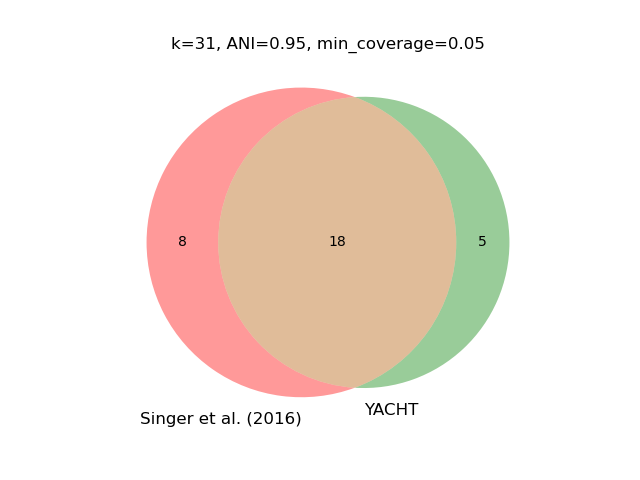
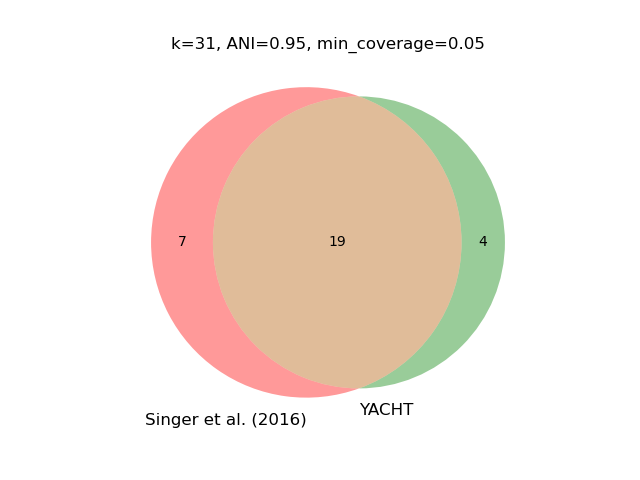
updates on analysis for use case example and venn diagram script using a new tabular file to match GTDB accessions

diff --git a/use_case_examples/synthetic_metagenome/venn.py b/use_case_examples/synthetic_metagenome/venn.py
@@ -1,25 +1,23 @@
 import pandas as pd
 import matplotlib.pyplot as plt
 from matplotlib_venn import venn2
+import math
 
 def load_data(tab_file, excel_file, tab_col, excel_col, sheet_name=None):
     """Loads and returns organism names from both files, removing non-breaking spaces."""
     tab_df = pd.read_csv(tab_file, sep='\t')
-    tab_df[tab_col] = tab_df[tab_col].astype(str).str.replace('\xa0', ' ', regex=True)
-    tab_df['Species'] = tab_df[tab_col].apply(lambda x: ' '.join(x.split()[:2]))
-    tab_df['Strain'] = tab_df[tab_col].apply(lambda x: x.split()[-2])
 
     excel_df = pd.read_excel(excel_file, sheet_name=sheet_name) if sheet_name else pd.read_excel(excel_file)
     excel_df[excel_col] = excel_df[excel_col].astype(str).str.replace('\xa0', ' ', regex=True)
 
-    return dict(zip(tab_df["Organism"], zip(tab_df["Species"], tab_df["Strain"]))), set(excel_df[excel_col])
+    return dict(zip(tab_df["Paper Identifier"], tab_df[tab_col])), set(excel_df[excel_col])
 
-def find_matches(query_dict, set):
+def find_matches(query_dict, ref_set):
     """Match organisms found in results from synthetic microorganism table"""
     keys_list = list(query_dict.keys())
-    for key, value in query_dict.items():
-        for organism in set:
-            if value[0] and value[1] in organism:
+    for key, query in query_dict.items():
+        for organism in ref_set:
+            if str(query) in organism:  # Check if query is found in ref
                 keys_list = [item.replace(key, organism) for item in keys_list]
     return keys_list
 
@@ -30,7 +28,7 @@ def plot_venn(set1, set2, label1='Singer et al. (2016)', label2='YACHT', output_
     plt.savefig(output_file)
     plt.clf()
 
-def main(tab_file, excel_file, title, tab_col='Organism', excel_col='organism_name', sheet_name=None, outfile="venn_diagram.pdf"):
+def main(tab_file, excel_file, title, tab_col='GTDB Accession', excel_col='organism_name', sheet_name=None, outfile="venn_diagram.pdf"):
     tab_dict, excel_set = load_data(tab_file, excel_file, tab_col, excel_col, sheet_name)
     tab_set = set(find_matches(tab_dict, excel_set))
     plot_venn(tab_set, excel_set, output_file=outfile,title=title)
@@ -40,10 +38,16 @@ k=31
 cov=0.05
 
 ani="0.80"
-main('table1_paper.tab', f'result_k31_min0.05_ani0.80.xlsx', sheet_name=f'min_coverage{cov}', outfile=f"venn_k{k}_{ani}_min{cov}.png",title=f"k={k}, ANI={ani}, min_coverage={cov}")
+main('matched_identifiers.tab', f'result_k31_ani0.80.xlsx', sheet_name=f'min_coverage{cov}', outfile=f"venn_k{k}_{ani}_min{cov}.png",title=f"k={k}, ANI={ani}, min_coverage={cov}")
 
 ani="0.95"
-main('table1_paper.tab', f'result_k31_min0.05_ani0.95.xlsx', sheet_name=f'min_coverage{cov}', outfile=f"venn_k{k}_{ani}_min{cov}.png",title=f"k={k}, ANI={ani}, min_coverage={cov}")
+main('matched_identifiers.tab', f'result_k31_ani0.95.xlsx', sheet_name=f'min_coverage{cov}', outfile=f"venn_k{k}_{ani}_min{cov}.png",title=f"k={k}, ANI={ani}, min_coverage={cov}")
 
 ani="0.9995"
-main('table1_paper.tab', f'result_k31_min0.05_ani0.9995.xlsx', sheet_name=f'min_coverage{cov}', outfile=f"venn_k{k}_{ani}_min{cov}.png",title=f"k={k}, ANI={ani}, min_coverage={cov}")
+main('matched_identifiers.tab', f'result_k31_ani0.9995.xlsx', sheet_name=f'min_coverage{cov}', outfile=f"venn_k{k}_{ani}_min{cov}.png",title=f"k={k}, ANI={ani}, min_coverage={cov}")
+
+ani="0.95"
+cov=0.0001
+main('matched_identifiers.tab', f'result_k31_ani0.95.xlsx', sheet_name=f'min_coverage{cov}', outfile=f"venn_k{k}_{ani}_min{cov}.png",title=f"k={k}, ANI={ani}, min_coverage={cov}")
+cov=0.25
+main('matched_identifiers.tab', f'result_k31_ani0.95.xlsx', sheet_name=f'min_coverage{cov}', outfile=f"venn_k{k}_{ani}_min{cov}.png",title=f"k={k}, ANI={ani}, min_coverage={cov}")

diff --git a/use_case_examples/synthetic_metagenome/README.md b/use_case_examples/synthetic_metagenome/README.md
@@ -33,13 +33,23 @@ YACHT offers the option to download pretrained reference databases, and we execu
 
 ### Identify presence of microbes in mock community using yacht run
 
-    yacht run --json 'gtdb-rs214-reps.k31_0.95_pretrained/gtdb-rs214-reps.k31_0.95_config.json' --sample_file 'sample.sig.zip' --num_threads 32 --keep_raw --significance 0.95 --min_coverage_list 1 0.5 0.1 0.05 0.01 --out ./result_k31_min0.05_ani0.95.xlsx
+    yacht run --json 'gtdb-rs214-reps.k31_0.95_pretrained/gtdb-rs214-reps.k31_0.95_config.json' --sample_file 'sample.sig.zip' --num_threads 32 --keep_raw --significance 0.95 --min_coverage_list 0.25 0.05 0.0001 --out ./result_k31_ani0.95.xlsx
 
 ### Results using an ANI threshold of 0.95
 
 18 species are reported as present, while 8 of those were not, this is likely due to these microbes having a lower sequence coverage resulting in less unique k-mers.
 
 ![Venn Diagram](venn_k31_0.95_min0.05.png)
+
+![Venn Diagram](venn_k31_0.95_min0.0001.png)
+
+![Venn Diagram](venn_k31_0.95_min0.25.png)
+
+## ANI threshold of 0.95 and reducing the scale factor to 500
+
+
+### Results using an ANI threshold of 0.95 but reducing the scale factor to 100
+
 
 ## ANI threshold of 0.9995
 
@@ -51,7 +61,7 @@ We increase the ANI threshold to 0.9995.
 
 ### Using an ANI threshold of 0.9995, report species present in mock community sample
 
-    yacht run --json 'gtdb-rs214-reps.k31_0.9995_pretrained/gtdb-rs214-reps.k31_0.9995_config.json' --sample_file 'sample.sig.zip' --num_threads 32 --keep_raw --significance 0.9995 --min_coverage_list 1 0.5 0.1 0.05 0.01 --out ./result_k31_min0.05_ani0.9995.xlsx
+    yacht run --json 'gtdb-rs214-reps.k31_0.9995_pretrained/gtdb-rs214-reps.k31_0.9995_config.json' --sample_file 'sample.sig.zip' --num_threads 32 --keep_raw --significance 0.9995 --min_coverage_list 1 0.5 0.1 0.05 0.01 --out ./result_k31_ani0.9995.xlsx
 
 ### Results using an ANI threshold of 0.9995
 
@@ -69,7 +79,7 @@ Using an ANI of 0.80 may produce false postives and therefore, we advise against
 
 ### Using an ANI threshold of 0.80, report species present in mock community sample
 
-    yacht run --json 'gtdb-rs214-reps.k31_0.80_pretrained/gtdb-rs214-reps.k31_0.80_config.json' --sample_file 'sample.sig.zip' --num_threads 32 --keep_raw --significance 0.80 --min_coverage_list 1 0.5 0.1 0.05 0.01 --out ./result_k31_min0.05_ani0.80.xlsx
+    yacht run --json 'gtdb-rs214-reps.k31_0.80_pretrained/gtdb-rs214-reps.k31_0.80_config.json' --sample_file 'sample.sig.zip' --num_threads 32 --keep_raw --significance 0.80 --min_coverage_list 1 0.5 0.1 0.05 0.01 --out ./result_k31_ani0.80.xlsx
 
 ### Results using an ANI threshold of 0.80
 
